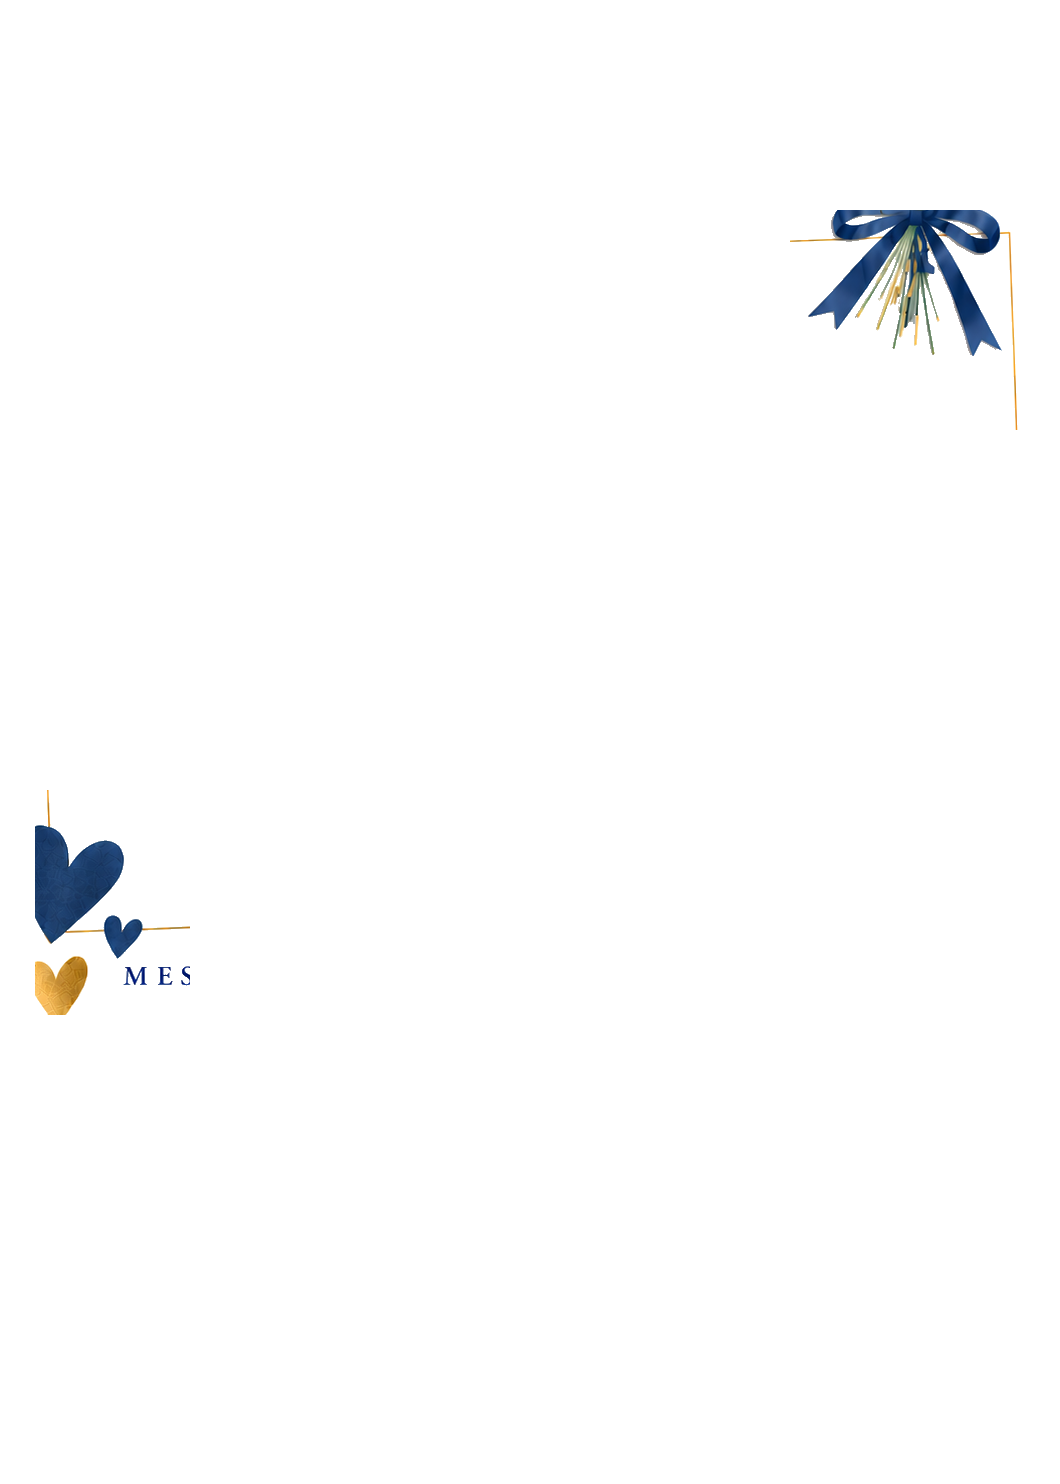
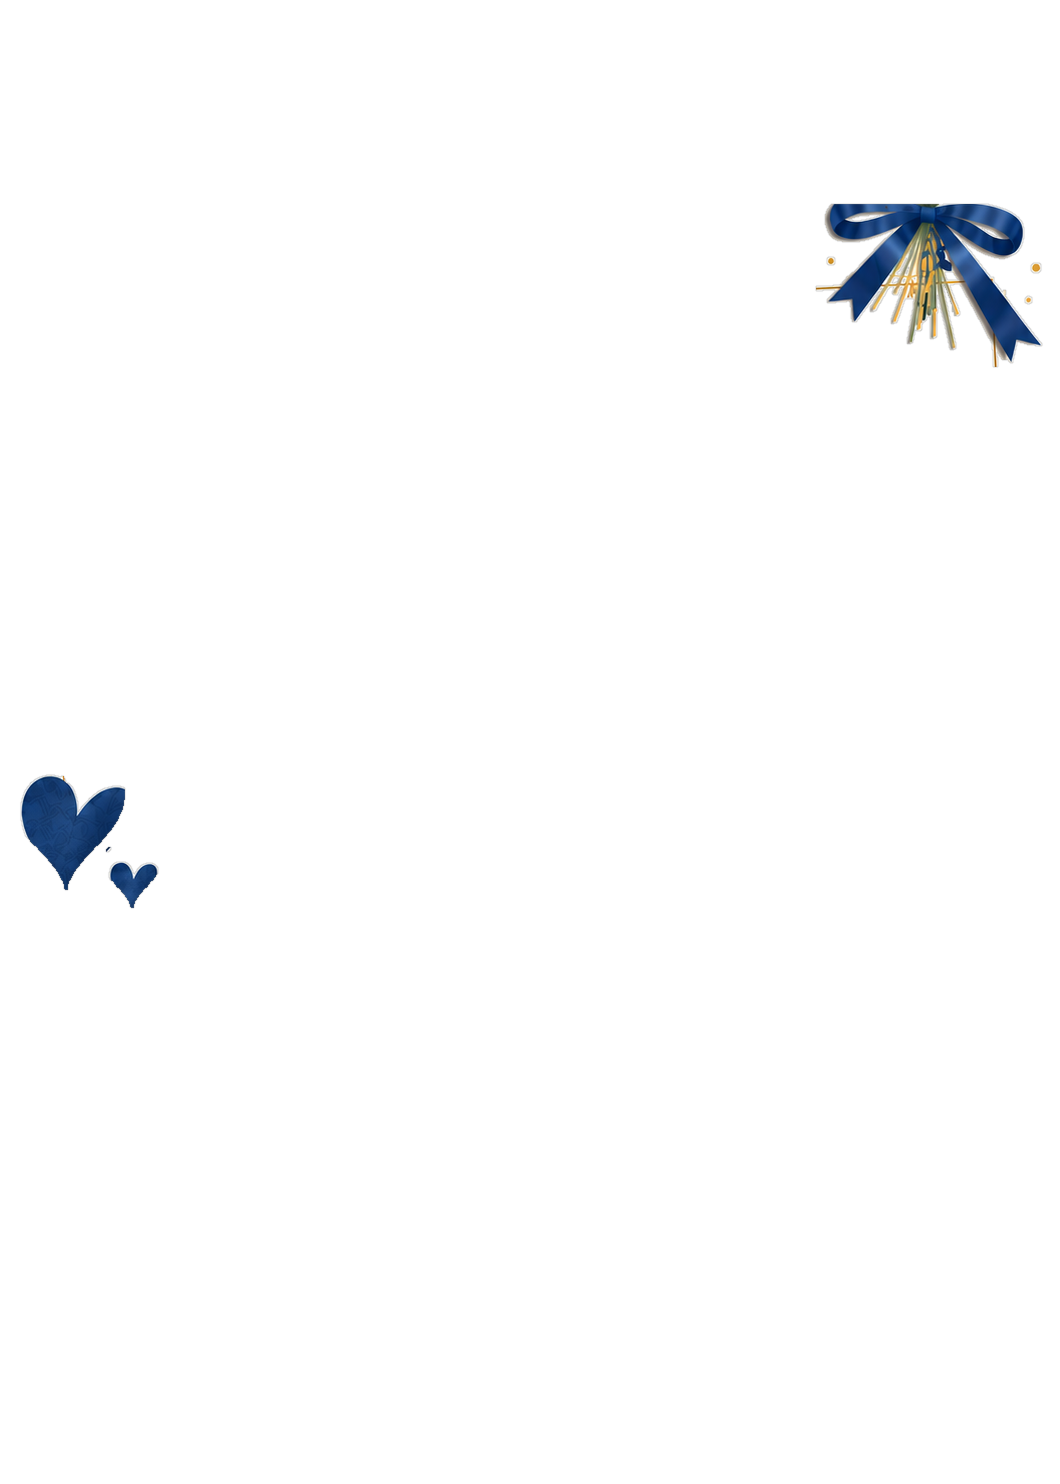
Add files via upload

Changed region(s): [[0.7472, 0.124, 0.9962, 0.248], [0.0, 0.496, 0.1557, 0.6819]]

diff --git a/preview.html b/preview.html
@@ -8,87 +8,115 @@
 .tabs{display:grid;grid-template-columns:1fr 1fr;gap:8px;margin:18px 0}.tabs button{padding:12px;border:1px solid #cbb79c;background:#fffaf2;border-radius:12px;color:#655648;font-weight:700}.tabs button.on{background:#9f8064;color:white}
 .pane{display:none}.pane.on{display:block}.caption{text-align:center;font-size:12px;color:#817466;margin:8px 0 12px}
 .voiceFrameWrap{background:#0b1f3a;border-radius:16px;overflow:hidden}
-iframe{display:block;width:100%;height:980px;border:0;background:#091a33}
+iframe{display:block;width:100%;height:860px;border:0;background:#091a33}
 .canvasWrap{background:#e9e4db;border-radius:16px;padding:10px;overflow:auto}canvas{display:block;width:100%;height:auto;max-width:600px;margin:auto;background:white}
 .actions{display:grid;grid-template-columns:1fr 1fr;gap:9px;margin-top:18px}.actions button{padding:14px;border-radius:13px;border:1px solid #bca68d;background:#fffaf2;color:#655648;font-weight:700}.actions .buy{background:#9f8064;color:#fff;border:0}.price{text-align:center;font-size:12px;color:#817466;margin-top:10px}
-@media(max-width:480px){iframe{height:860px}}
+
+
+.flow{
+  display:flex;
+  align-items:center;
+  justify-content:center;
+  gap:10px;
+  margin-bottom:18px;
+  font-size:11px;
+  color:#8e8176;
+}
+.flow .step-current{
+  position:relative;
+  color:#4e4339;
+  font-weight:700;
+  padding:0 2px;
+}
+.flow .step-current::after{
+  content:"";
+  position:absolute;
+  left:0;
+  right:0;
+  bottom:-6px;
+  height:2px;
+  border-radius:999px;
+  background:#b69570;
+}
+.flow .step-future{color:#8e8176;font-weight:400}
+.flow .arrow{color:#b9afa4}
+
 </style></head><body><main class="wrap">
-<div class="top"><span class="badge">Classic Birthday</span><h1>2つのプレビューを確認</h1><p>ボイスページとメッセージカードは同じ入力内容から作成されます。</p></div>
+<div class="flow">
+  <span class="step-future">1 入力</span>
+  <span class="arrow">→</span>
+  <span class="step-current">2 プレビュー</span>
+  <span class="arrow">→</span>
+  <span class="step-future">3 完成</span>
+</div>
+<div class="top"><span class="badge">Classic Birthday</span><h1>プレビューを確認</h1></div>
 <div class="tabs"><button id="tv" class="on">ボイスページ</button><button id="tm">メッセージカード</button></div>
-<section id="pv" class="pane on"><div class="caption">受け取った人がスマホで見るページ</div><div class="voiceFrameWrap"><iframe src="classic-birthday-voice-v5-preview.html" title="Classic Birthday ボイスページ"></iframe></div></section>
+<section id="pv" class="pane on"><div class="caption">受け取った人がスマホで見るページ</div><div class="voiceFrameWrap"><iframe id="voiceFrame" src="classic-birthday-voice.html" title="Classic Birthday ボイスページ"></iframe></div></section>
 <section id="pm" class="pane"><div class="caption">写真・メッセージ・QRを載せて贈るカード（プレビューではQR枠のみ）</div><div class="canvasWrap"><canvas id="card" width="1060" height="1484"></canvas></div></section>
 <div class="actions"><button onclick="history.back()">入力を修正</button><button class="buy" onclick="alert('決済は次の実装段階です。完成版は480円（税込）です。')">完成版へ　480円</button></div>
 <div class="price">閲覧・ダウンロード期限：購入日から1年間</div>
 </main>
 <script>
 const $=id=>document.getElementById(id);
+window.addEventListener('message',e=>{
+  if(e.origin!==location.origin)return;
+  if(!e.data || e.data.type!=='koefoto-voice-height')return;
+  const frame=$('voiceFrame');
+  if(frame && Number.isFinite(e.data.height)){
+    frame.style.height=Math.max(100,e.data.height)+'px';
+  }
+});
 $('tv').onclick=()=>{$('tv').classList.add('on');$('tm').classList.remove('on');$('pv').classList.add('on');$('pm').classList.remove('on')};
 $('tm').onclick=()=>{$('tm').classList.add('on');$('tv').classList.remove('on');$('pm').classList.add('on');$('pv').classList.remove('on')};
 function db(){return new Promise((ok,ng)=>{const r=indexedDB.open('koephoto-preview',2);r.onsuccess=()=>ok(r.result);r.onerror=()=>ng(r.error)})}
 async function get(k){const x=await db();const v=await new Promise((ok,ng)=>{const t=x.transaction('draft');const r=t.objectStore('draft').get(k);r.onsuccess=()=>ok(r.result);r.onerror=()=>ng(r.error)});x.close();return v}
 function wrap(ctx,text,maxWidth){let lines=[],cur='';for(const ch of text){if(ctx.measureText(cur+ch).width<=maxWidth)cur+=ch;else{lines.push(cur);cur=ch}}if(cur)lines.push(cur);return lines}
 (async()=>{
- const draft=JSON.parse(sessionStorage.getItem('koephoto-draft')||'{}');if(!draft.message){alert('作成データがありません。作成画面に戻ります。');location.href='koephoto-create-v27.html';return}
- const photo=await get('photo');const pu=URL.createObjectURL(photo);
- const c=$('card'),ctx=c.getContext('2d');const base=new Image();base.src='classic-birthday-message.png';await base.decode();ctx.drawImage(base,0,0,c.width,c.height);
- const img=new Image();img.src=pu;await img.decode();
- // Classic Birthdayの実際の写真枠は長方形ではなく、わずかに傾いた四角形。
- // 枠の内側4点にクリップして写真を配置する（生成AIなし・座標固定）。
- // 写真はClassic Birthdayの実際の傾いた写真枠いっぱいに配置する。
- // その後、固定テンプレートのリボン/花束/ハートだけを透明PNGで最前面に戻す。
- const p1={x:39,y:353}, p2={x:998,y:319}, p3={x:1021,y:952}, p4={x:61,y:986};
- const minX=Math.min(p1.x,p2.x,p3.x,p4.x), maxX=Math.max(p1.x,p2.x,p3.x,p4.x);
- const minY=Math.min(p1.y,p2.y,p3.y,p4.y), maxY=Math.max(p1.y,p2.y,p3.y,p4.y);
- const fw=maxX-minX, fh=maxY-minY, ir=img.width/img.height, fr=fw/fh;
- let sx=0,sy=0,sw=img.width,sh=img.height;
- if(ir>fr){sw=img.height*fr;sx=(img.width-sw)/2}else{sh=img.width/fr;sy=(img.height-sh)/2}
- ctx.save();
- ctx.beginPath();ctx.moveTo(p1.x,p1.y);ctx.lineTo(p2.x,p2.y);ctx.lineTo(p3.x,p3.y);ctx.lineTo(p4.x,p4.y);ctx.closePath();ctx.clip();
- ctx.drawImage(img,sx,sy,sw,sh,minX,minY,fw,fh);
- ctx.restore();
- const decor=new Image();decor.src='classic-birthday-decor-overlay.png';await decor.decode();ctx.drawImage(decor,0,0,c.width,c.height);
- ctx.textBaseline='alphabetic';
- // Happy Birthday直下：To + 贈る相手の名前 + 金色下線
- const recipientText=draft.recipient;
- ctx.fillStyle='#173f78';
- ctx.font='italic 28px Georgia,"Times New Roman",serif';
- ctx.fillText('To',205,286);
- const nameLineX1=300,nameLineX2=760,nameLineY=291;
- ctx.strokeStyle='#c99538';ctx.lineWidth=2;
- ctx.beginPath();ctx.moveTo(nameLineX1,nameLineY);ctx.lineTo(nameLineX2,nameLineY);ctx.stroke();
- let recipientSize=34;
- ctx.fillStyle='#173f78';ctx.textAlign='center';
- ctx.font='600 '+recipientSize+'px "Hiragino Sans","Yu Gothic",sans-serif';
- while(recipientSize>18 && ctx.measureText(recipientText).width>(nameLineX2-nameLineX1-12)){
-   recipientSize--;ctx.font='600 '+recipientSize+'px "Hiragino Sans","Yu Gothic",sans-serif';
- }
- ctx.fillText(recipientText,(nameLineX1+nameLineX2)/2,nameLineY-6);
- ctx.textAlign='left';
- const rules=[1130,1170,1210,1250],maxw=485;
- // 文字数に応じて初期フォントサイズを自動調整。短文ほど大きく、長文ほど小さく。
- const n=draft.message.length;
- let size = n<=25 ? 26 : n<=45 ? 24 : n<=65 ? 22 : n<=82 ? 20 : 18;
- let lines=[];
- while(size>=16){
-   ctx.font='300 '+size+'px "Hiragino Sans","Yu Gothic",sans-serif';
-   lines=wrap(ctx,draft.message,maxw);
-   if(lines.length<=4)break;
-   size--;
- }
- // 行数が少ない場合は使用する罫線の上から順に配置
- lines.slice(0,4).forEach((line,i)=>ctx.fillText(line,102,rules[i]-5));
- ctx.fillStyle='#9a793f';
- const senderText=draft.sender;
- const sn=senderText.length;
- let senderSize = sn<=6 ? 28 : sn<=10 ? 26 : sn<=12 ? 23 : 21;
- const senderMaxWidth=330;
- ctx.font='500 '+senderSize+'px "Hiragino Sans","Yu Gothic",sans-serif';
- while(senderSize>18 && ctx.measureText(senderText).width>senderMaxWidth){
-   senderSize--;
-   ctx.font='500 '+senderSize+'px "Hiragino Sans","Yu Gothic",sans-serif';
- }
- ctx.textAlign='center';
- ctx.fillText(senderText,(221+562)/2,1330);
- ctx.textAlign='left';
+  const draft=JSON.parse(sessionStorage.getItem('koephoto-draft')||'{}');
+  if(!draft.message){alert('作成データがありません。入力画面に戻ります。');location.href='index.html';return}
+  const photo=await get('photo');
+  const pu=URL.createObjectURL(photo);
+  const c=$('card'),ctx=c.getContext('2d');
+  const base=new Image();base.src='classic-birthday-message.png';await base.decode();
+  ctx.clearRect(0,0,c.width,c.height);ctx.drawImage(base,0,0,c.width,c.height);
+  const img=new Image();img.src=pu;await img.decode();
+
+  // 新しい写真枠。写真位置・形は固定。
+  const p1={x:48,y:332},p2={x:1008,y:297},p3={x:1024,y:866},p4={x:70,y:907};
+  const minX=Math.min(p1.x,p2.x,p3.x,p4.x),maxX=Math.max(p1.x,p2.x,p3.x,p4.x);
+  const minY=Math.min(p1.y,p2.y,p3.y,p4.y),maxY=Math.max(p1.y,p2.y,p3.y,p4.y);
+  const fw=maxX-minX,fh=maxY-minY,ir=img.width/img.height,fr=fw/fh;
+  let sx=0,sy=0,sw=img.width,sh=img.height;
+  if(ir>fr){sw=img.height*fr;sx=(img.width-sw)/2}else{sh=img.width/fr;sy=(img.height-sh)/2}
+  ctx.save();ctx.beginPath();ctx.moveTo(p1.x,p1.y);ctx.lineTo(p2.x,p2.y);ctx.lineTo(p3.x,p3.y);ctx.lineTo(p4.x,p4.y);ctx.closePath();ctx.clip();
+  ctx.drawImage(img,sx,sy,sw,sh,minX,minY,fw,fh);ctx.restore();
+
+  // 花リボン・左下ハート等を写真より前面に重ねる。
+  const decor=new Image();decor.src='classic-birthday-decor-overlay.png';await decor.decode();ctx.drawImage(decor,0,0,c.width,c.height);
+
+  // To欄：名前のみHTML/Canvas側で表示。「へ」は付けない。
+  const recipient=(draft.recipient||'').slice(0,12);
+  let rs=34;ctx.fillStyle='#0b347f';ctx.textAlign='center';ctx.textBaseline='alphabetic';
+  ctx.font='600 '+rs+'px "Hiragino Sans","Yu Gothic",sans-serif';
+  while(rs>18&&ctx.measureText(recipient).width>470){rs--;ctx.font='600 '+rs+'px "Hiragino Sans","Yu Gothic",sans-serif'}
+  ctx.fillText(recipient,548,274);
+
+  // MESSAGE本文：最大5行、自動縮小。
+  ctx.textAlign='left';ctx.fillStyle='#46515c';
+  const rules=[1018,1067,1116,1165,1214],maxw=480;let size=(draft.message||'').length<=35?25:(draft.message||'').length<=65?22:20,lines=[];
+  while(size>=17){ctx.font='400 '+size+'px "Hiragino Sans","Yu Gothic",sans-serif';lines=wrap(ctx,draft.message||'',maxw);if(lines.length<=5)break;size--}
+  lines.slice(0,5).forEach((line,i)=>ctx.fillText(line,120,rules[i]-6));
+
+  // FROM欄：贈り主名。
+  const sender=(draft.sender||'').slice(0,10);let ss=28;ctx.fillStyle='#9a793f';ctx.textAlign='center';
+  ctx.font='600 '+ss+'px "Hiragino Sans","Yu Gothic",sans-serif';
+  while(ss>17&&ctx.measureText(sender).width>330){ss--;ctx.font='600 '+ss+'px "Hiragino Sans","Yu Gothic",sans-serif'}
+  ctx.fillText(sender,398,1304);
+
+  // プレビューではQRを生成しない。実QRは完成版で差し込む。
+  ctx.fillStyle='#9b8e7c';ctx.font='13px "Hiragino Sans","Yu Gothic",sans-serif';ctx.fillText('QRコード',842,1110);
+
+  // 期限は背景画像ではなくプログラム側で表示。
+  ctx.font='12px "Hiragino Sans","Yu Gothic",sans-serif';ctx.fillText('閲覧・ダウンロード期限',842,1224);ctx.fillText('購入日から1年間',842,1244);ctx.textAlign='left';
 })();
 </script></body></html>
